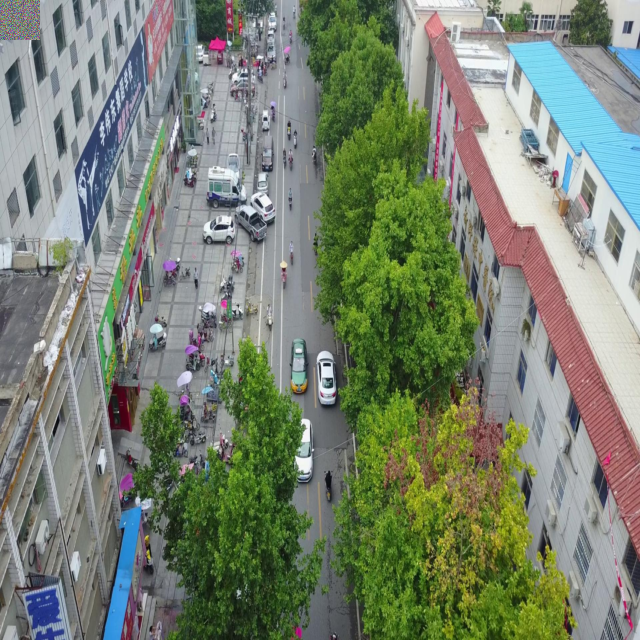
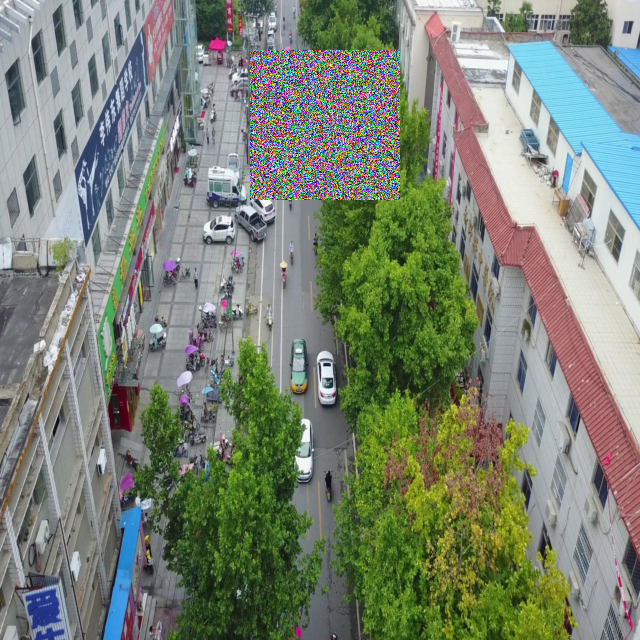
debugged detection suppression

Changed region(s): [[0.375, 0.0625, 0.625, 0.3125], [0.0, 0.0, 0.0625, 0.0625]]

diff --git a/scripts/generate_adversarial_patch.py b/scripts/generate_adversarial_patch.py
@@ -3,6 +3,7 @@ from pathlib import Path
 import sys
 
 import numpy as np
+import torch
 from PIL import Image
 from ultralytics import YOLO
 from art.estimators.object_detection import PyTorchYolo
@@ -12,9 +13,57 @@ os.environ["YOLO_SETTINGS_SYNC"] = "False"
 os.environ["YOLO_OFFLINE"] = "1"
 
 yolo = YOLO("yolov8n.pt")
-yolo.model.train()  # Ensure model is in training mode for gradient computation
 
-art_detector = PyTorchYolo(
+
+class UltralyticsYoloEstimator(PyTorchYolo):
+    """
+    PyTorchYolo subclass that fixes loss_gradient() for ultralytics YOLOv8.
+
+    ART's default loss_gradient() fails on ultralytics models because it calls
+    .backward() on a non-differentiable value. This override directly computes
+    gradients by minimizing sigmoid class confidence (out["scores"]) — the same
+    signal that suppresses detections — using PyTorch autograd.
+    """
+
+    def loss_gradient(self, x: np.ndarray, y, **kwargs) -> np.ndarray:
+        device = next(self.model.parameters()).device
+
+        # Bypass PyTorchYoloLossWrapper: in eval mode it returns a non-differentiable
+        # list[dict] after postprocessing. self.model.model is the underlying
+        # ultralytics DetectionModel whose eval output retains gradients.
+        raw_model = self.model.model if hasattr(self.model, "model") else self.model
+        raw_model.eval()
+
+        with torch.set_grad_enabled(True):
+            x_tensor = torch.from_numpy(x).to(device).requires_grad_(True)
+
+            # DetectionModel eval returns (y_tensor, preds_dict) where
+            # preds_dict = {"boxes": ..., "scores": ..., "feats": ...}
+            # preds_dict["scores"] shape: (batch, nc, na) — raw class logits
+            out = raw_model(x_tensor)
+
+            if isinstance(out, (list, tuple)) and len(out) > 1 and isinstance(out[1], dict) and "scores" in out[1]:
+                # Preferred path: raw class logits, fully differentiable
+                loss = out[1]["scores"].sigmoid().mean()
+            elif isinstance(out, (list, tuple)):
+                # Fallback: processed inference tensor (batch, 4+nc, na)
+                # YOLOv8 has no objectness score — class scores start at index 4
+                loss = out[0][:, 4:, :].mean()
+            elif isinstance(out, torch.Tensor):
+                loss = out[:, 4:, :].mean()
+            else:
+                raise RuntimeError(f"Unexpected model output type: {type(out)}")
+
+            raw_model.zero_grad()
+            loss.backward()
+
+            if x_tensor.grad is None:
+                raise RuntimeError("Gradient is None — gradient chain may be broken")
+
+            return x_tensor.grad.detach().cpu().numpy()
+
+
+art_detector = UltralyticsYoloEstimator(
     model=yolo.model,
     model_name="yolov8n",
     input_shape=(3, 640, 640),
@@ -48,10 +97,10 @@ def load_visdrone_annotations_art_format(
 ) -> list[dict]:
     """
     Load VisDrone annotations and convert to ART format.
-    
+
     VisDrone format: bbox_left, bbox_top, bbox_width, bbox_height, score, category, truncation, occlusion
     ART format: {"boxes": [[x1, y1, x2, y2], ...], "labels": [cls_id, ...], "scores": [1.0, ...]}
-    
+
     Skips category 0 (ignored) and 11 (others).
     Scales boxes to target_size.
     """
@@ -59,45 +108,45 @@ def load_visdrone_annotations_art_format(
     target_h, target_w = target_size
     orig_h, orig_w = orig_size
     scale_x, scale_y = target_w / orig_w, target_h / orig_h
-    
+
     for image_name in image_names:
         ann_file = annotations_dir / image_name.replace(".jpg", ".txt").replace(".png", ".txt")
-        
+
         boxes = []
         labels = []
         scores = []
-        
+
         if ann_file.exists():
             with open(ann_file, "r") as f:
                 for line in f:
                     parts = line.strip().split(",")
                     if len(parts) < 8:
                         continue
-                    
+
                     bbox_left, bbox_top, bbox_width, bbox_height = map(float, parts[:4])
                     score = float(parts[4])
                     category = int(float(parts[5]))
-                    
+
                     # Skip category 0 (ignored) and 11 (others)
                     if category == 0 or category == 11:
                         continue
-                    
+
                     # Scale to target image size
                     x1 = bbox_left * scale_x
                     y1 = bbox_top * scale_y
                     x2 = (bbox_left + bbox_width) * scale_x
                     y2 = (bbox_top + bbox_height) * scale_y
-                    
+
                     boxes.append([x1, y1, x2, y2])
                     labels.append(category)
                     scores.append(1.0)
-        
+
         labels_list.append({
             "boxes": np.array(boxes, dtype=np.float32) if boxes else np.zeros((0, 4), dtype=np.float32),
             "labels": np.array(labels, dtype=np.int64) if labels else np.zeros(0, dtype=np.int64),
             "scores": np.array(scores, dtype=np.float32) if scores else np.zeros(0, dtype=np.float32),
         })
-    
+
     return labels_list
 
 
@@ -121,26 +170,26 @@ if __name__ == "__main__":
     val_annotations_dir = Path("data/VisDrone2019-DET-val/annotations")
     output_dir = Path("outputs")
     output_dir.mkdir(exist_ok=True)
-    
+
     # Load batch of 4 images
     images_np = load_visdrone_val_batch(val_images_dir, n=4)
     print("Loaded batch shape:", images_np.shape)
-    
+
     # Get image file names for annotation loading
     image_paths = sorted(
         [p for p in val_images_dir.iterdir() if p.suffix.lower() in {".jpg", ".jpeg", ".png", ".bmp"}]
     )[:4]
     image_names = [p.name for p in image_paths]
-    
+
     # Get original size from first image
     orig_size = get_image_original_size(image_paths[0])
-    
+
     # Load annotations in ART format
     labels_list = load_visdrone_annotations_art_format(
         val_annotations_dir, image_names, orig_size=orig_size, target_size=(640, 640)
     )
     print(f"Loaded annotations for {len(labels_list)} images")
-    
+
     # Test basic prediction
     try:
         print("\nTesting basic prediction...")
@@ -149,56 +198,50 @@ if __name__ == "__main__":
     except Exception as e:
         print(f"✗ Prediction failed: {e}")
         sys.exit(1)
-    
-    # Try gradient computation
-    try:
-        print("\nTesting gradient computation...")
-        grads = art_detector.loss_gradient(x=images_np[:1], y=[labels_list[0]])
-        print(f"✓ Gradient computation works. Shape: {grads.shape}")
-    except Exception as e:
-        print(f"✗ Gradient computation failed: {e}")
-        print("\nNote: ART RobustDPatch may not be fully compatible with this ultralytics/PyTorch version.")
-        print("Falling back to simple patch generation demo...")
-        
-        # Simple fallback: create a random patch for demonstration
-        patch = np.random.uniform(0.3, 0.7, size=(3, 40, 40)).astype(np.float32)
-        print(f"Generated demo patch. Shape: {patch.shape}, Min: {patch.min():.4f}, Max: {patch.max():.4f}")
-        
-        # Save patch as PNG
-        patch_uint8 = (patch * 255).astype(np.uint8)
-        patch_uint8 = np.transpose(patch_uint8, (1, 2, 0))
-        patch_img = Image.fromarray(patch_uint8)
-        patch_img.save(output_dir / "adversarial_patch.png")
-        print(f"Saved demo patch to outputs/adversarial_patch.png")
-        
-        # Save patched sample images
-        for i in range(min(2, len(image_paths))):
-            patched_img_np = apply_patch_to_image(images_np[i], patch, location=(0, 0))
-            patched_img_uint8 = (np.transpose(patched_img_np, (1, 2, 0)) * 255).astype(np.uint8)
-            patched_img_pil = Image.fromarray(patched_img_uint8)
-            patched_img_pil.save(output_dir / f"patched_sample_{i}.png")
-        print(f"Saved patched samples to outputs/patched_sample_*.png")
-        
-        # Before/After detection comparison
-        print("\n=== Before/After Detection Comparison (Demo Patch) ===")
-        
-        # Predict on clean images
-        clean_preds = art_detector.predict(images_np)
-        clean_counts = [len(pred.get("boxes", np.array([]))) for pred in clean_preds]
-        total_clean = sum(clean_counts)
-        print(f"Total detections (clean): {total_clean} across {len(images_np)} images")
-        
-        # Apply patch to all images and predict
-        patched_images = np.array([
-            apply_patch_to_image(images_np[i], patch, location=(0, 0))
-            for i in range(len(images_np))
-        ])
-        
-        patched_preds = art_detector.predict(patched_images)
-        patched_counts = [len(pred.get("boxes", np.array([]))) for pred in patched_preds]
-        total_patched = sum(patched_counts)
-        print(f"Total detections (patched): {total_patched} across {len(patched_images)} images")
-        delta = total_clean - total_patched
-        pct = 100 * delta / max(total_clean, 1) if total_clean > 0 else 0
-        print(f"Delta: {delta} detections ({pct:.1f}%)")
 
+    # Generate adversarial patch with RobustDPatch
+    print("\n=== Generating adversarial patch (RobustDPatch) ===")
+    PATCH_SHAPE = (3, 150, 150)   # channels-first
+    PATCH_LOCATION = (50, 250)    # (y_start, x_start) — object-dense region
+
+    attack = RobustDPatch(
+        estimator=art_detector,
+        patch_shape=PATCH_SHAPE,
+        learning_rate=0.01,
+        max_iter=50,
+        batch_size=4,
+        verbose=True,
+    )
+    patch = attack.generate(x=images_np)
+    print(f"Generated patch. Shape: {patch.shape}, Min: {patch.min():.4f}, Max: {patch.max():.4f}")
+
+    # Save patch as PNG
+    patch_uint8 = (np.transpose(patch, (1, 2, 0)) * 255).astype(np.uint8)
+    Image.fromarray(patch_uint8).save(output_dir / "adversarial_patch.png")
+    print(f"Saved patch to {output_dir / 'adversarial_patch.png'}")
+
+    # Apply patch to all images and save samples
+    patched_images = np.array([
+        apply_patch_to_image(images_np[i], patch, location=PATCH_LOCATION)
+        for i in range(len(images_np))
+    ])
+    for i in range(min(2, len(image_paths))):
+        patched_uint8 = (np.transpose(patched_images[i], (1, 2, 0)) * 255).astype(np.uint8)
+        Image.fromarray(patched_uint8).save(output_dir / f"patched_sample_{i}.png")
+    print(f"Saved patched samples to {output_dir}/patched_sample_*.png")
+
+    # Before/after detection comparison
+    print("\n=== Before/After Detection Comparison ===")
+    clean_preds = art_detector.predict(images_np)
+    clean_counts = [len(pred.get("boxes", np.array([]))) for pred in clean_preds]
+    total_clean = sum(clean_counts)
+    print(f"Total detections (clean): {total_clean} across {len(images_np)} images")
+
+    patched_preds = art_detector.predict(patched_images)
+    patched_counts = [len(pred.get("boxes", np.array([]))) for pred in patched_preds]
+    total_patched = sum(patched_counts)
+    print(f"Total detections (patched): {total_patched} across {len(patched_images)} images")
+
+    delta = total_clean - total_patched
+    pct = 100.0 * delta / max(total_clean, 1)
+    print(f"Delta: {delta} detections ({pct:.1f}%)")
